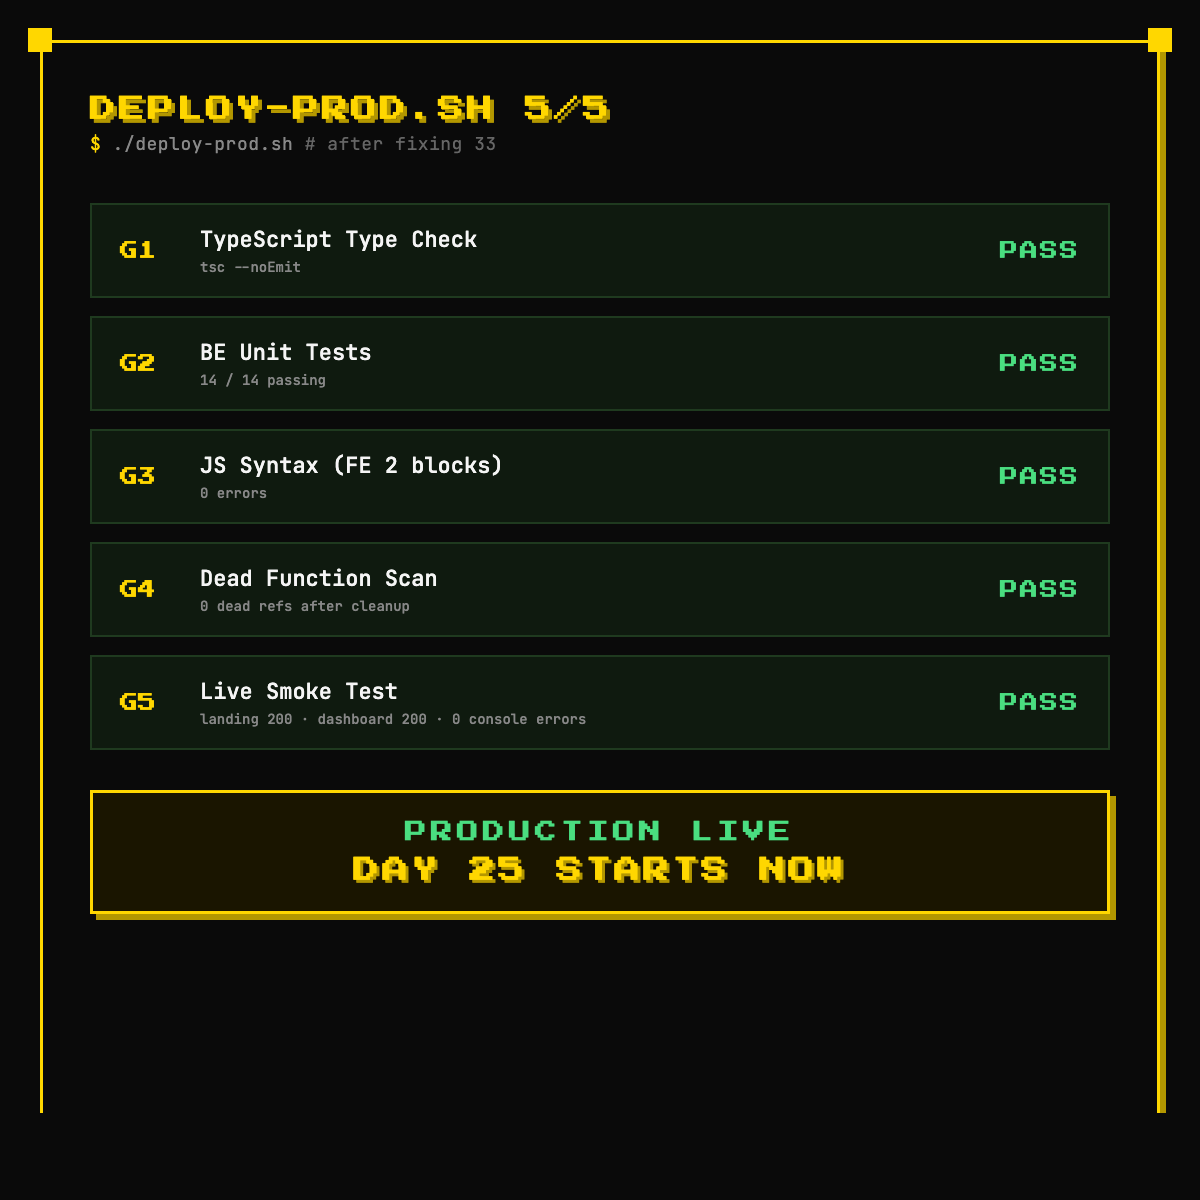
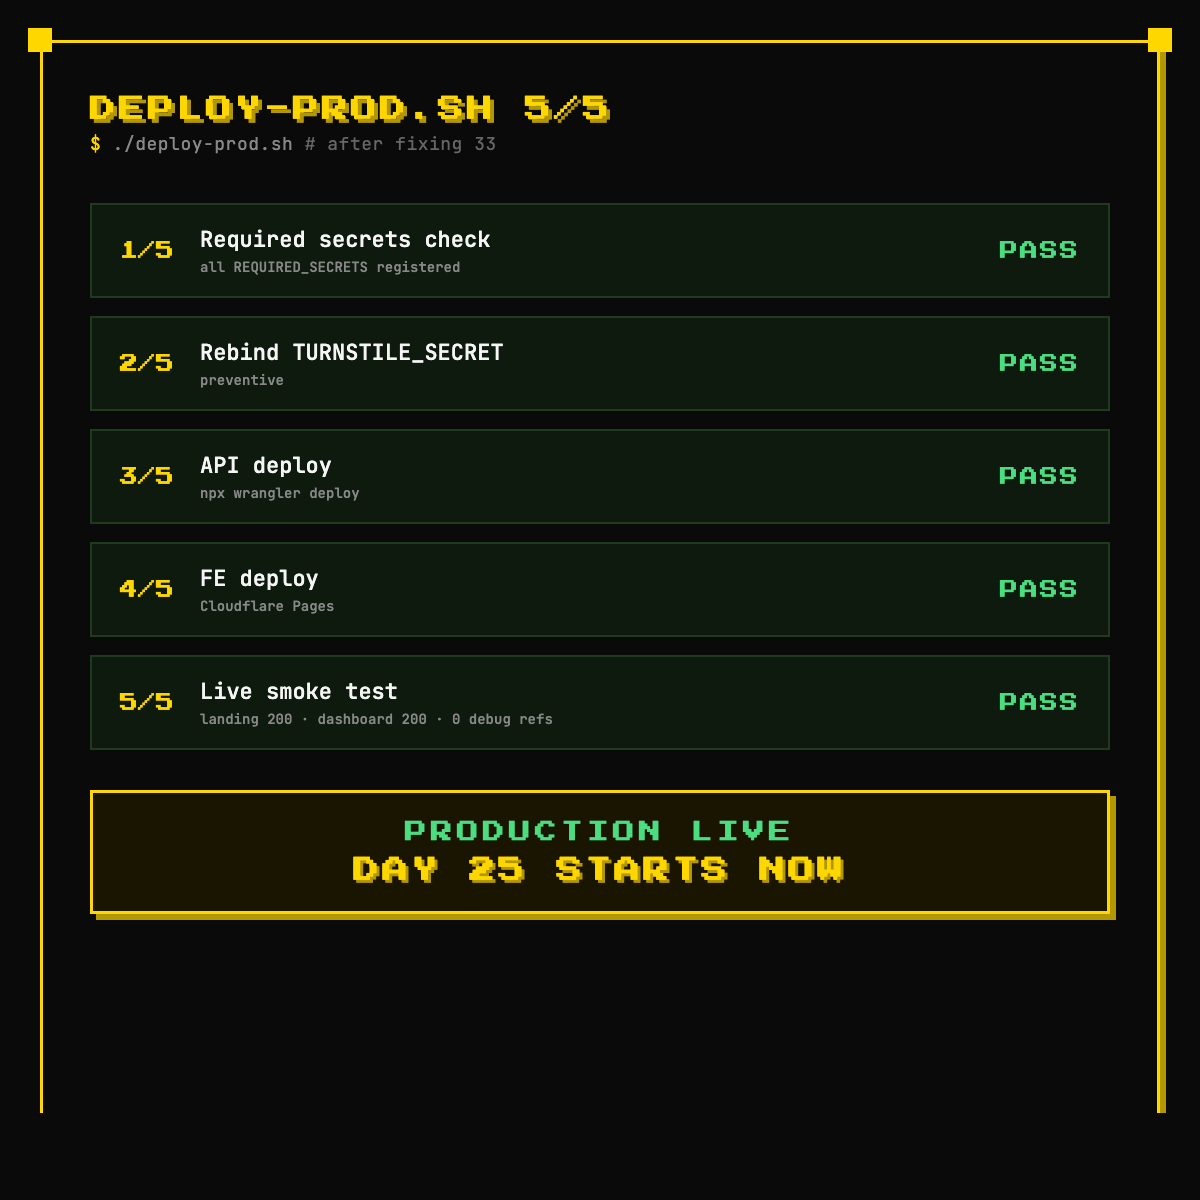
WP [04-29 23:44] staging/bigpie-p2 —  3 files changed, 22 insertions(+), 22 deletions(-)

diff --git a/assets/linkedin-day24/slide3.html b/assets/linkedin-day24/slide3.html
@@ -108,28 +108,28 @@
   <div class="cmd"><span class="prompt">$</span> ./deploy-prod.sh  <span style="color:#666;"># after fixing 33</span></div>
 
   <div class="gate">
-    <div class="num">G1</div>
-    <div class="name">TypeScript Type Check<small>tsc --noEmit</small></div>
+    <div class="num">1/5</div>
+    <div class="name">Required secrets check<small>all REQUIRED_SECRETS registered</small></div>
     <div class="pass">PASS</div>
   </div>
   <div class="gate">
-    <div class="num">G2</div>
-    <div class="name">BE Unit Tests<small>14 / 14 passing</small></div>
+    <div class="num">2/5</div>
+    <div class="name">Rebind TURNSTILE_SECRET<small>preventive</small></div>
     <div class="pass">PASS</div>
   </div>
   <div class="gate">
-    <div class="num">G3</div>
-    <div class="name">JS Syntax (FE 2 blocks)<small>0 errors</small></div>
+    <div class="num">3/5</div>
+    <div class="name">API deploy<small>npx wrangler deploy</small></div>
     <div class="pass">PASS</div>
   </div>
   <div class="gate">
-    <div class="num">G4</div>
-    <div class="name">Dead Function Scan<small>0 dead refs after cleanup</small></div>
+    <div class="num">4/5</div>
+    <div class="name">FE deploy<small>Cloudflare Pages</small></div>
     <div class="pass">PASS</div>
   </div>
   <div class="gate">
-    <div class="num">G5</div>
-    <div class="name">Live Smoke Test<small>landing 200 · dashboard 200 · 0 console errors</small></div>
+    <div class="num">5/5</div>
+    <div class="name">Live smoke test<small>landing 200 · dashboard 200 · 0 debug refs</small></div>
     <div class="pass">PASS</div>
   </div>
 
